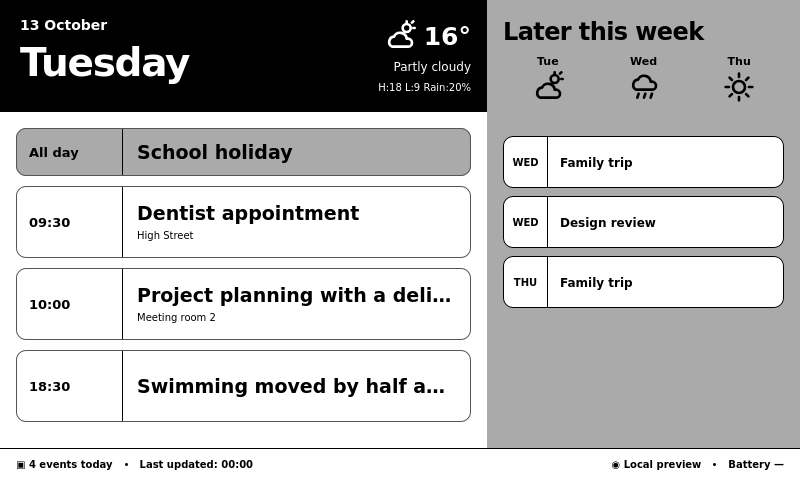
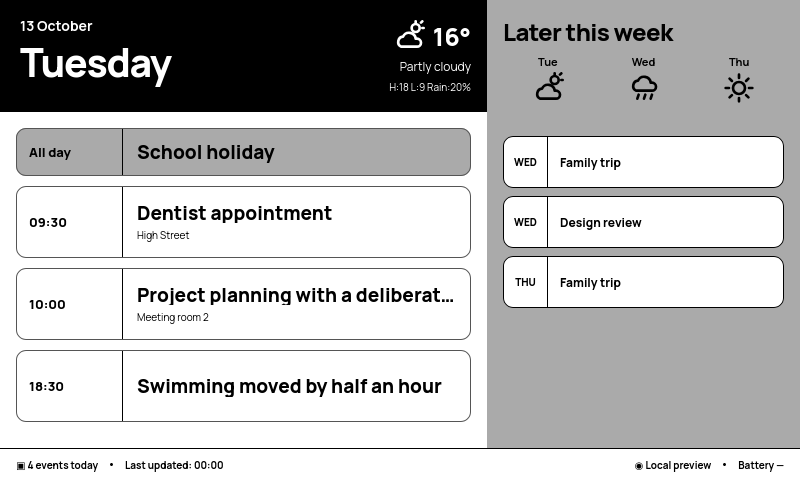
Embed licensed Manrope font in the production Liquid template

diff --git a/scripts/embed_manrope.py b/scripts/embed_manrope.py
@@ -1,0 +1,35 @@
+"""Refresh the self-contained Manrope font block from checked-in assets."""
+import base64
+from pathlib import Path
+
+ROOT = Path(__file__).resolve().parents[1]
+TEMPLATE = ROOT / "src" / "full.liquid"
+BEGIN = "{% comment %}BEGIN EMBEDDED MANROPE"
+END = "/* END EMBEDDED MANROPE */"
+
+
+def embed():
+    font = (ROOT / "assets/fonts/manrope-latin.woff2").read_bytes()
+    if font[:4] != b"wOF2" or len(font) > 100_000:
+        raise SystemExit("Expected a small Manrope WOFF2 font")
+    licence = "\n".join(line.rstrip() for line in (ROOT / "assets/fonts/OFL-Manrope.txt").read_text(encoding="utf-8").splitlines()).strip()
+    encoded = base64.b64encode(font).decode("ascii")
+    block = (f"{BEGIN}\n{licence}\nEND MANROPE LICENCE{{% endcomment %}}\n"
+             "<style>\n/* BEGIN EMBEDDED MANROPE */\n"
+             "@font-face {font-family:Manrope;font-style:normal;font-weight:400 800;"
+             "font-display:block;"
+             f"src:url(data:font/woff2;base64,{encoded}) format('woff2');"
+             "unicode-range:U+0000-00FF,U+0131,U+0152-0153,U+02BB-02BC,U+02C6,U+02DA,U+02DC,U+0304,U+0308,U+0329,U+2000-206F,U+20AC,U+2122,U+2191,U+2193,U+2212,U+2215,U+FEFF,U+FFFD;}\n"
+             f"{END}\n</style>\n")
+    markup = TEMPLATE.read_text(encoding="utf-8")
+    if BEGIN in markup:
+        start = markup.index(BEGIN)
+        finish = markup.index("</style>", markup.index(END, start)) + len("</style>\n")
+        markup = markup[:start] + block + markup[finish:]
+    else:
+        markup = markup.replace("<style>", block + "\n<style>", 1)
+    TEMPLATE.write_text(markup, encoding="utf-8", newline="\n")
+
+
+if __name__ == "__main__":
+    embed()

diff --git a/dev_preview/browser_test.rb b/dev_preview/browser_test.rb
@@ -36,6 +36,7 @@ begin
                        viewport: { width: 800, height: 480 })
   driver.navigate.to('http://preview:8080/preview')
   wait.until { driver.execute_script('return document.fonts.status === "loaded"') }
+  assert(driver.execute_script('return [...document.fonts].some(font => font.family === "Manrope" && font.status === "loaded")'), 'Embedded Manrope did not load')
   assert(driver.find_element(css: '.pc-day').text == 'Tuesday', 'Simulated weekday failed')
   assert(driver.find_element(css: '.pc-date').text == '13 October', 'Simulated date failed')
   assert(driver.find_elements(css: '.pc-event').length == 4, 'Expected four Today cards')

diff --git a/README.md b/README.md
@@ -117,7 +117,7 @@ ICS fixtures / HTTPS feeds     Mock weather / Open-Meteo
                    800 × 480 iframe
 ```
 
-`dev_preview/` is separate from the optional `calendar_service/`. The small Ruby adapter invokes native trmnlp rendering and filters. It removes trmnlp's additional page wrapper; the production template's required `screen screen--og` and `view view--full` remain. Official Framework 3.2.0 CSS/fonts are cached in the image; unused external JS/font links are removed. Typography uses system fallbacks, inspired by Manrope rather than copying original firmware fonts. The trmnlp image is pinned by digest: review its API and run browser tests when upgrading.
+`dev_preview/` is separate from the optional `calendar_service/`. The small Ruby adapter invokes native trmnlp rendering and filters. It removes trmnlp's additional page wrapper; the production template's required `screen screen--og` and `view view--full` remain. Official Framework 3.2.0 CSS/fonts are cached in the image; unused external JS/font links are removed. The production template embeds the Manrope Latin variable font (weights 400–800) and its licence, so the plugin ZIP carries the font offline. Unsupported characters fall back to Inter, Arial or system sans-serif. See [font source and regeneration](assets/fonts/README.md). The trmnlp image is pinned by digest: review its API and run browser tests when upgrading.
 
 The template keeps Terminus `source_1`, `source_2`, `source_3` arrays of calendars containing events. The adapter merges sources in chronological order, preserves calendar names, supplies explicit all-day/end/continuation metadata, and creates one segment per overlapping day. `ordered: true` preserves instant ordering across repeated DST hours. Optional preview clock fields select simulated time; production falls back to its existing clock. The mock footer is fixed for screenshots; actual refresh times appear in diagnostics.
 

diff --git a/assets/fonts/README.md b/assets/fonts/README.md
@@ -1,0 +1,17 @@
+# Embedded Manrope
+
+`manrope-latin.woff2` is the Google Fonts v20 Latin variable subset of Manrope, supporting weights 400–800. It is used unchanged, under the [SIL Open Font License](OFL-Manrope.txt).
+
+Source: https://fonts.gstatic.com/s/manrope/v20/xn7gYHE41ni1AdIRggexSg.woff2
+
[1 lines of base64/hex data omitted]
+
+The font is 24,836 bytes; base64 adds approximately 33 KB to the production template. Latin letters, common punctuation and currency characters use Manrope. Other scripts and unsupported symbols fall back to Inter, Arial or the system sans-serif font.
+
+`scripts/embed_manrope.py` embeds both the font and its full copyright/licence in `src/full.liquid`. This keeps the plugin ZIP self-contained without requiring Terminus to serve additional font assets. Regenerate after a deliberate asset update:
+
+```sh
+docker compose run --rm --no-deps --volume .:/plugin --workdir /plugin preview python scripts/embed_manrope.py
+```
+
+Run the native browser test and inspect/update screenshot baselines afterwards. The browser check asserts that the actual Manrope font face loaded, not merely that CSS names it. Local native rendering is verified; loading the exported template in a live Terminus instance remains to be verified.

diff --git a/docs/DESIGN_PORT.md b/docs/DESIGN_PORT.md
@@ -10,7 +10,7 @@ Reference implementation: [original ESP32 renderer](https://github.com/simondoes
 - White Today cards: 72 px timed, 48 px light-grey all-day, split time/title fields, rounded outline.
 - Full-height light-grey right sidebar with **Later this week** heading, three forecast slots, and narrow day-labelled upcoming cards.
 - Footer with today count, last-rendered time, connection label and optional battery reading.
-- Original Manrope-like typography, with local/system fallbacks; no font files are copied or redistributed.
+- Manrope typography using an embedded Latin variable WOFF2 subset (weights 400–800), with local/system fallbacks for unsupported glyphs. The font and its full SIL Open Font License are included in the Liquid template; see [font details](../assets/fonts/README.md).
 
 The Liquid palette uses exactly four shades: black (`#000`), dark grey (`#555`) for Today card outlines, light grey (`#aaa`) for all-day cards and the sidebar, and white (`#fff`) for timed cards and the main panel. These shades survive the local preview's four-level quantization; the previous `#dedede` backgrounds mapped to white.
 
